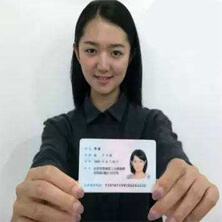
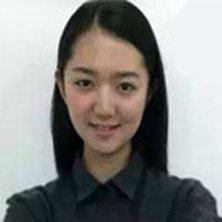
完成修改，更新线上

diff --git a/铁蚂蚁/pages/task/selectoperation.vue b/铁蚂蚁/pages/task/selectoperation.vue
@@ -280,12 +280,12 @@
                                 </dt>
                                 <dd><label>第一步：去{{data.PlatName}}评价并截图</label> 
                                     <div class="evaluate_box" v-if="data.EvaluationClaim">
-                                        <p class="evaluateTit">文字要求<span class="c_Org">（评价必须粘贴一下文字）</span></p>
+                                        <p class="evaluateTit">文字要求<span class="c_Org">（评价必须粘贴以下文字）</span></p>
                                         <textarea type="text" class="keybox" id="praiseText" readonly :value="data.EvaluationClaim" disabled></textarea>
                                         <p class="link_btn" @click="copy(data.EvaluationClaim)">复制评价文字</p>
                                     </div>
                                     <div class="evaluate_box" style="margin-top:0.5rem;" v-if="data.EvaluationImg||data.EvaluationImg1||data.EvaluationImg2||data.EvaluationImg3||data.EvaluationImg4">
-                                        <p class="evaluateTit">图片要求<span class="c_Org">（在评价里必须上传一下图片）</span></p>
+                                        <p class="evaluateTit">图片要求<span class="c_Org">（在评价里必须上传以下图片）</span></p>
                                         <div class="imglist thumbnails evaluationImglst">
                                             <span class="img" v-if="data.EvaluationImg" @click="previewImage([data.EvaluationImg])">
                                                 <img :src="data.EvaluationImg">
@@ -789,5 +789,9 @@ export default {
             }
         }
     }
+}
+.evaluate_box .link_btn{
+    float:none;
+    display:inline-block;
 }
 </style>

diff --git a/铁蚂蚁/utils/index.js b/铁蚂蚁/utils/index.js
@@ -2,16 +2,15 @@ import md5 from 'js-md5';
 
 //API接口地址
 // 线上
-// const host = 'https://api.damingduo.cn/api/';
+const host = 'https://api.naomiebie.cn/api/';//红鸟  旺店宝
+const filePath = 'http://top.naosongduan.cn';//文件域名
+const hostPath = 'http://top.naosongduan.cn/h5/index.html';//主机路径
 // 线上后台地址
-// const filePath = 'http://xcx.gllgyz.com';
-const host = 'http://hnapi.wtvxin.com/api/';// 红鸟  旺店宝测试
-// const host = 'http://xmyapi.wtvxin.com/api/';// 铁蚂蚁测试
+// const host = 'http://hnapi.wtvxin.com/api/';// 红鸟  旺店宝测试
+// const filePath = 'http://hn.wtvxin.com';//文件域名
+// const hostPath = 'http://hnapi.wtvxin.com/index.html';//主机路径
 const website = 'http://hn.wtvxin.com';
 const wssPath = 'wss://hxapia.com/WebSocketServer.ashx';// wss地址
-// const filePath = 'http://www.hnapi.com';//文件域名
-const filePath = 'http://hn.wtvxin.com';//文件域名
-const hostPath = 'http://hnapi.wtvxin.com';//主机路径
 const LoginPath = "/pages/login/login";//登录路径
 const RegisterPath = "/pages/login/register/main";//注册路径
 
@@ -45,6 +44,7 @@ function request(url, data,method, loginFn) {
     const Sign = md5(AppId + ClientId + ClientSecret + Apikey + Timetamp); //签名
     uni.request({
       url: host + url,
+      // url: '/api/' + url,
       method: method,
       data: data,
       header: {
@@ -275,7 +275,7 @@ export function trim(str) {
 }
 //验证手机号
 export function valPhone(tel) {
-  var r_phone = /^[1][3,4,5,6,7,8][0-9]{9}$/;
+  var r_phone = /^[1][3,4,5,6,7,8,9][0-9]{9}$/;
   // var phoneNumber = $.trim($('#phoneNumber').val());
   if (trim(tel) == "") {
     toast( "手机号不能为空!");

diff --git a/铁蚂蚁/pages/task/dispatchtask.vue b/铁蚂蚁/pages/task/dispatchtask.vue
@@ -212,23 +212,28 @@ export default {
 			},7000);
 		},
 		// 接任务
+		
 		sendTask(AccountIdList,PlatIdList){
-			post('Task/NewsSystemSendTask',{
-				UserId: this.userId,
-				Token: this.token,
-				AccountIdList: AccountIdList.join(','),
-				PlatIdList: PlatIdList.join(','),
-				TaskType: this.TaskType,//任务类型，0全部，1垫付任务，2浏览任务
-				MaxAdvancePayMoney: this.MaxAdvancePayMoney,
-				VersionControl:"1.3.57"
-			}).then(res=>{
-				this.taskOrder = res.obj;
-				this.closeTask();
-			}).catch(err=>{
-				this.closeTask();
-				if(err.errcode===3){
-					toast('你还有未操作的任务，请操作后再接其他任务！')
-				}
+			get('Login/GetAppVersion',{temp:99}).then(Version=>{
+				const VersionControl = Version.obj.AppVersion;
+				post('Task/NewsSystemSendTask',{
+					UserId: this.userId,
+					Token: this.token,
+					AccountIdList: AccountIdList.join(','),
+					PlatIdList: PlatIdList.join(','),
+					TaskType: this.TaskType,//任务类型，0全部，1垫付任务，2浏览任务
+					MaxAdvancePayMoney: this.MaxAdvancePayMoney,
+					VersionControl
+				}).then(res=>{
+					this.taskOrder = res.obj;
+					this.closeTask();
+				}).catch(err=>{
+					this.closeTask();
+					if(err.errcode===3){
+						toast('你还有未操作的任务，请操作后再接其他任务！')
+					}
+				})
+			
 			})
 		},
 		// 取消接任务

diff --git a/铁蚂蚁/pages/login/login.vue b/铁蚂蚁/pages/login/login.vue
@@ -36,8 +36,9 @@
                         </div>
                         <div  class="weui-btn weui-btn-active btn-login" @click="login">登录</div>
                         <div class="hasAccountMag">
-                            <div style="color:#222;" @click="goUrl('login/forgetpwd')">忘记密码</div>还没有账号？
-                            <div class="a" @click="goUrl('login/register')" >立即注册</div>
+                            <div style="color:#222;" @click="goUrl('login/forgetpwd')">忘记密码</div>
+                            <!-- 还没有账号？ -->
+                            <!-- <div class="a" @click="goUrl('login/register')" >立即注册</div> -->
                         </div>
                     </div>
                 </form>
@@ -47,7 +48,7 @@
 </template>
 
 <script>
-import {goUrl,valPhone,toast,post,ClientId,ClientSecret} from '@/utils'
+import {goUrl,valPhone,toast,post,get,ClientId,ClientSecret} from '@/utils'
 export default {
     data(){
         return {

diff --git a/铁蚂蚁/pages/task/taskexamples.vue b/铁蚂蚁/pages/task/taskexamples.vue
@@ -2,11 +2,11 @@
     <div class="bg_fff">
         <headers>操作任务示例</headers>
         <div class="taskexamples_box">
-            <img src="../../static/image/examplespic/firststep.jpg" alt="" />
-            <img src="../../static/image/examplespic/secondsteps.jpg" alt="" />
-            <img src="../../static/image/examplespic/thirdsteps.jpg" alt="" />
-            <img src="../../static/image/examplespic/fourthsteps.jpg" alt="" />
-            <img src="../../static/image/examplespic/exampleshop.jpg" alt="" />
+            <img src="/static/image/examplespic/firststep.jpg" alt="" />
+            <img src="/static/image/examplespic/secondsteps.jpg" alt="" />
+            <img src="/static/image/examplespic/thirdsteps.jpg" alt="" />
+            <img src="/static/image/examplespic/fourthsteps.jpg" alt="" />
+            <img src="/static/image/examplespic/exampleshop.jpg" alt="" />
         </div>
     </div>
 </template>

diff --git a/铁蚂蚁/pages/task/list.vue b/铁蚂蚁/pages/task/list.vue
@@ -44,7 +44,7 @@
 </template>
 
 <script>
-import {post,toast,goUrl} from '@/utils';
+import {post,get,toast,goUrl} from '@/utils';
 import notData from '@/components/bottomNotData.vue';
 export default {
 	components:{notData},
@@ -105,14 +105,17 @@ export default {
 			})
 		},
 		ConfirmationTask(TaskListNo){
-			post('Task/UserDetermineTask',{
-                UserId: this.userId,
-                Token: this.token,
-                AccountId: this.AccountId,
-				TaskListNo,
-				VersionControl:'1.3.57'
-			}).then(res=>{
-				this.newTask = res.obj;
+			get('Login/GetAppVersion',{temp:99}).then(Version=>{
+				const VersionControl = Version.obj.AppVersion;
+				post('Task/UserDetermineTask',{
+					UserId: this.userId,
+					Token: this.token,
+					AccountId: this.AccountId,
+					TaskListNo,
+					VersionControl
+				}).then(res=>{
+					this.newTask = res.obj;
+				})
 			})
 		},
 		newTaskOk(TaskAcceptNo){

diff --git a/铁蚂蚁/pages/other/faq.vue b/铁蚂蚁/pages/other/faq.vue
@@ -15,16 +15,16 @@
 					</ul>
 			</div>
 	
-			<div class="online">
+			<!-- <div class="online">
 				<div class="title">在线客服<span>(09:00~22:00)</span></div>
-				<div class="desc">
-					所有常见问题都有相应的解决方案，请参考常见问题自主解决，如 果常见问题无法解决您的问题在咨询客服，由于客服咨询量较大， 请尽可能的描述清楚您的问题，以便快速解决
+					<div class="desc">
+						所有常见问题都有相应的解决方案，请参考常见问题自主解决，如 果常见问题无法解决您的问题在咨询客服，由于客服咨询量较大， 请尽可能的描述清楚您的问题，以便快速解决
 					</div>
-				</div>
+			</div>
 	
 				<div class="ftbtn mb10">
 					<a class="btn qqbtn" :href="qqurl">QQ咨询</a>
-				</div>
+				</div> -->
 			</div>
 		</div>
 	</div>

diff --git a/铁蚂蚁/pages/user/bindinfo.vue b/铁蚂蚁/pages/user/bindinfo.vue
@@ -174,10 +174,11 @@ export default {
         // ReviewStatus:
         //-1 未绑定 // 0 待审核,// 1 审核通过,// 2  审核失败
         onBindAccount(item){
-            if (this.info.IsAUT !== 1) {
-                toast("需要绑定身份证，并认证后才可以绑定！")
-                return;
-            }
+            // 判断是否需要先认证身份证
+            // if (this.info.IsAUT !== 1) {
+            //     toast("需要绑定身份证，并认证后才可以绑定！")
+            //     return;
+            // }
             //typeId = 1--淘宝；2-天猫；3--京东；4--阿里巴巴；5--拼多多；6--美丽说；7--蘑菇街；
             let params = {};
             // 淘宝

diff --git a/铁蚂蚁/pages/login/forgetpwd.vue b/铁蚂蚁/pages/login/forgetpwd.vue
@@ -26,7 +26,7 @@
                                         <input type="text" v-model.trim="imgCode" class="weui-input" placeholder="请输入图像验证码" id="txtcode" />
                                     </div>
                                 </div>
-                                <div class="weui-cell__ft">
+                                <div class="weui-cell__ft" @click="upOnlyVal">
                                     <div class="imgBox">
                                         <img  :src="host+'Member/GetImageCode?OnlyVal='+OnlyVal" id="ValidateImg" alt="验证码,看不清楚?请点击刷新验证码"/>
                                     </div>

diff --git a/铁蚂蚁/pages/user/check/taobaolist.vue b/铁蚂蚁/pages/user/check/taobaolist.vue
@@ -9,7 +9,7 @@
                             <div class="weui-cells navList__weui-cells">
                                 <div class="weui-cell">
                                     <div class="weui-cell__hd">
-                                        <img src="static/image/icons/taobao.png" alt="" class="icon-navImg" />
+                                        <img src="/static/image/icons/taobao.png" alt="" class="icon-navImg" />
                                     </div>
                                     <div class="weui-cell__bd">
                                         <p class="title">{{list.PlatAccount}}</p>

diff --git a/铁蚂蚁/pages/user/menber.vue b/铁蚂蚁/pages/user/menber.vue
@@ -9,7 +9,7 @@
             <div class="memberTop">
                 <div class="myMessages">
                     <div class="touxiang" @click="goUrl('user/accountinfo')">
-                        <img :src="userInfo.Avatar||'static/image/tx/tx_pic.png'" @click="goUrl('login/login')" id="Avatar" alt="" />
+                        <img :src="userInfo.Avatar||'/static/image/tx/tx_pic.png'" @click="goUrl('login/login')" id="Avatar" alt="" />
                     </div>
                     <div @click="goUrl('user/grade_rule')" class="btn_vs">查看等级规则</div>
                     <div class="mySome">

diff --git a/铁蚂蚁/pages/user/bindidcard.vue b/铁蚂蚁/pages/user/bindidcard.vue
@@ -81,7 +81,7 @@
 								<img class="upimg" :src="data.IdcardInHand" alt="" v-if="data.IdcardInHand">
 								<img class="upimg" src="/static/image/tx/tx_pic.png" alt="" v-else>
 							</div>
-							<p class="title">手持身份证照</p>
+							<p class="title">自拍照</p>
 						</div>
 					</li>
 					<li>
@@ -209,7 +209,7 @@ export default {
 				return false;
 			}
 			if(!data.IdcardInHand){
-				toast('请上传手持身份证！');
+				toast('请上传自拍照！');
 				return false;
 			}
 			return true;
